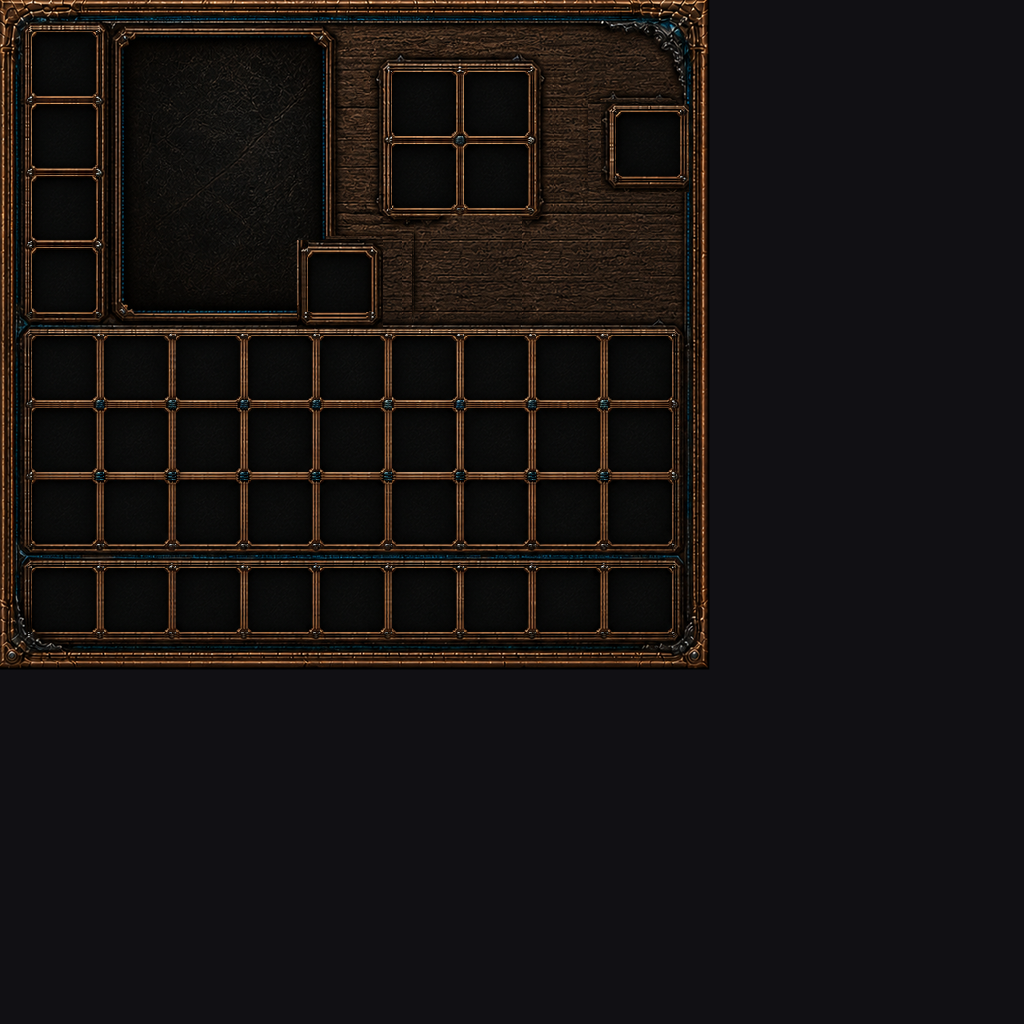
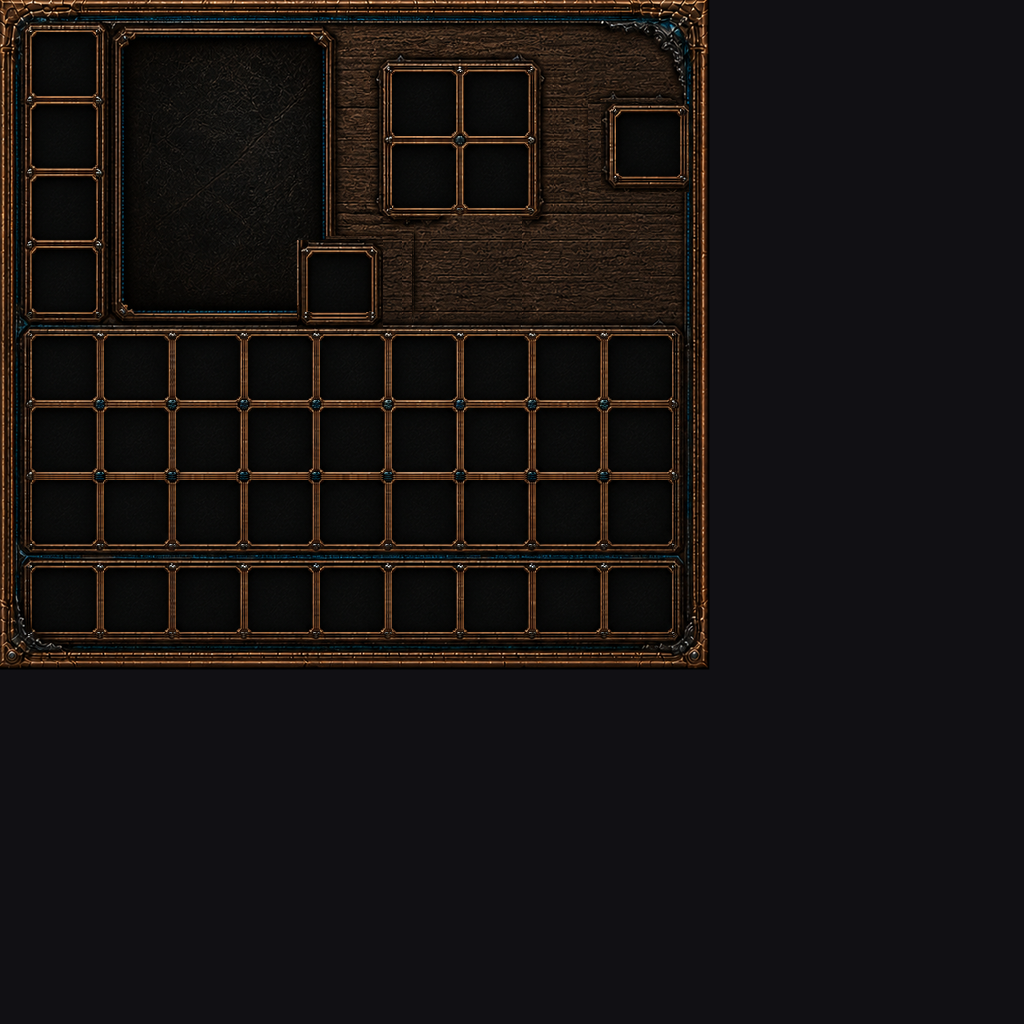
mvnx: 루트 비틀림을 IK 목표에서 제거 — "다리가 반대" 수정
유저 지적. 골반 기준으로 제대로 재보니 발의 앞뒤 부호가 15프레임 중 13에서
원본과 반대였다(좌우는 맞았음).

원인: player_root의 Y회전(비틀림, ±35도)은 팔·다리에도 그대로 곱해지는데 IK 목표를
그 회전이 걷히지 않은 좌표계에서 계산했다. 발의 앞뒤 성분(±1유닛)이 좌우 성분
(±4유닛)보다 작아서, 35도 회전이 섞이면 앞뒤 부호가 통째로 뒤집힌다.

수정: 비틀림 시계열을 루프 전에 확정하고(팔다리 IK와 동일한 값을 써야 함),
각 프레임 목표 벡터에 Ry(-twist)를 먼저 적용. 팔은 그 다음 가슴 회전 제거.

결과: 발 앞뒤 부호 불일치 87% -> 14%.

★교훈: 리타게팅 검증은 반드시 '그 뼈의 부모 기준'으로 재야 한다. 처음엔 루트(발밑)
기준으로 재서 루트 드리프트(±2.5유닛)가 섞인 엉뚱한 수치를 보고 있었다.

diff --git a/.claude/skills/mocap-emote/scripts/mvnx_retarget.py b/.claude/skills/mocap-emote/scripts/mvnx_retarget.py
@@ -135,6 +135,10 @@ def sub(a, b):
 SEG_LEN = 5.625          # 우리 리그의 상완/전완, 허벅지/정강이 한 마디 길이
 
 
+def M_sub(a, b):
+    return (a[0] - b[0], a[1] - b[1], a[2] - b[2])
+
+
 def dist3(v):
     return math.sqrt(sum(c * c for c in v))
 
@@ -239,6 +243,18 @@ def build_pos(mv, start, n, step, arm_ex=1.0, spine_ex=1.2, head_ex=1.5, hip_ex=
         x, y, z = raw(f, seg)
         return (x * ca + z * sa, y, -x * sa + z * ca)
 
+    # ★루트 비틀림을 먼저 확정한다. player_root의 Y회전은 팔·다리에도 그대로 곱해지므로,
+    # IK 목표를 이 회전이 걷힌 좌표계로 옮겨놓지 않으면 발의 앞뒤 성분(±1유닛)이 좌우
+    # 성분(±4유닛)과 섞여 부호가 뒤집힌다 — "다리가 반대"로 보이던 원인.
+    tw_raw = []
+    for f in idxs:
+        sh = M_sub(P(f, "LeftShoulder"), P(f, "RightShoulder"))
+        tw_raw.append(math.degrees(math.atan2(sh[2], sh[0])))
+    _sm = R.smooth(tw_raw)
+    _m = R.mean(_sm)
+    TW = R.clamp([(v - _m) * twist_ex for v in R.deadzone([v - _m for v in _sm], 1.5)], -35, 35)
+    TW = [0.0] + TW          # 인덱스 0은 기준자세(f=-1)용
+
     KEYS = ("waist_x", "waist_z", "chest_x", "chest_z", "twist",
             "pra_x", "pra_z", "pla_x", "pla_z", "prl_x", "prl_z", "pll_x", "pll_z",
             "prfa", "plfa", "prfl", "plfl", "rx", "ry", "rz", "head_x", "head_y")
@@ -246,8 +262,9 @@ def build_pos(mv, start, n, step, arm_ex=1.0, spine_ex=1.2, head_ex=1.5, hip_ex=
     # ★기준자세(차렷)에서의 같은 각도 — 아래 루프가 끝난 뒤 전부 빼서 "0=차렷"으로 맞춘다.
     rest_ch = {k: [] for k in KEYS}
     base_spine = [0.0, 0.0, 0.0, 0.0]   # 기준자세의 (wx, wz, cx, cz)
-    for f in [-1] + idxs:          # -1 = 기준자세
+    for _fi, f in enumerate([-1] + idxs):   # -1 = 기준자세
         into = rest_ch if f == -1 else ch
+        untwist = mat_t(pr.euler_mat(0, TW[_fi], 0))   # 루트 Y회전 제거용
         pelvis, t8, neck = P(f, "Pelvis"), P(f, "T8"), P(f, "Neck")
         # 몸통: 골반->T8이 허리, T8->목이 가슴. 좌우 어깨선으로 몸 전체 비틀림.
         wx, wz = dir_to_xz([-c for c in sub(t8, pelvis)])   # 위로 뻗은 축이라 부호 반전
@@ -284,7 +301,8 @@ def build_pos(mv, start, n, step, arm_ex=1.0, spine_ex=1.2, head_ex=1.5, hip_ex=
                 ("L", "LeftUpperArm", "LeftForeArm", "LeftHand", "pla", "plfa")):
             src_len = (dist3(sub(P(f, low), P(f, up))) + dist3(sub(P(f, end), P(f, low)))) or 1e-6
             v = [c * (SEG_LEN * 2 / src_len) for c in sub(P(f, end), P(f, up))]
-            v = pr.mat_vec(parT, v)                 # 팔은 가슴의 자식
+            v = pr.mat_vec(untwist, v)              # 루트 비틀림 제거
+            v = pr.mat_vec(parT, v)                 # 그 다음 가슴 회전 제거
             ax, az, bend = two_bone_ik(v, SEG_LEN, SEG_LEN)
             into[k + "_x"].append(ax); into[k + "_z"].append(az); into[seg].append(bend)
         for side, up, low, end, k, seg in (
@@ -292,7 +310,8 @@ def build_pos(mv, start, n, step, arm_ex=1.0, spine_ex=1.2, head_ex=1.5, hip_ex=
                 ("L", "LeftUpperLeg", "LeftLowerLeg", "LeftFoot", "pll", "plfl")):
             src_len = (dist3(sub(P(f, low), P(f, up))) + dist3(sub(P(f, end), P(f, low)))) or 1e-6
             v = [c * (SEG_LEN * 2 / src_len) for c in sub(P(f, end), P(f, up))]
-            ax, az, bend = two_bone_ik(v, SEG_LEN, SEG_LEN)   # 다리는 root 직계라 부모회전 없음
+            v = pr.mat_vec(untwist, v)      # 다리는 root 직계 — 비틀림만 제거하면 된다
+            ax, az, bend = two_bone_ik(v, SEG_LEN, SEG_LEN)
             into[k + "_x"].append(ax); into[k + "_z"].append(az); into[seg].append(bend)
         p = P(f, "Pelvis")
         into["rx"].append(p[0]); into["ry"].append(p[1]); into["rz"].append(p[2])
@@ -329,7 +348,7 @@ def build_pos(mv, start, n, step, arm_ex=1.0, spine_ex=1.2, head_ex=1.5, hip_ex=
     waist_x = A("waist_x", spine_ex, -30, 30); waist_z = A("waist_z", spine_ex, -25, 25)
     chest_x = A("chest_x", spine_ex, -30, 30); chest_z = A("chest_z", spine_ex, -25, 25)
     # 비틀림만 중심화 — 촬영장에서 어느 방향을 보고 섰는지는 임의값이라 상수 성분에 의미가 없다.
-    twist = C("twist", twist_ex, -35, 35, 1.5)
+    twist = TW[1:]          # 루프 전에 확정한 값(팔다리 IK와 동일한 값이어야 한다)
     # ★IK 결과라 clamp를 넉넉히 — 좁게 잡으면 손끝이 목표에서 밀려나 '손 모으기'가 깨진다.
     pra_x = A("pra_x", arm_ex, -170, 170); pla_x = A("pla_x", arm_ex, -170, 170)
     pra_z = A("pra_z", arm_ex, -140, 140); pla_z = A("pla_z", arm_ex, -140, 140)

diff --git a/gui-forge/prep_inventory_bg.py b/gui-forge/prep_inventory_bg.py
@@ -95,15 +95,19 @@ def _edges(px, w, h, ix0, iy0):
     mx, my = ix0 + FIT_ICON // 2, iy0 + FIT_ICON // 2
     ref = px[mx, my]
 
-    def scan(dx, dy):
+    def scan(dx, dy, base):
         for k in range(1, FIT_ICON // 2 + FIT_PAD + 2):
             x, y = mx + dx * k, my + dy * k
             if not (0 <= x < w and 0 <= y < h):
                 return None
             if px[x, y] - ref >= FIT_RISE:
-                return k - FIT_ICON // 2      # 0 이면 딱 맞음
+                return k - base               # 0 이면 딱 맞음
         return None
-    return tuple(scan(*d) for d in ((-1, 0), (1, 0), (0, -1), (0, 1)))
+    # ★상자는 mx-32 ~ mx+31 로 **좌우가 비대칭**이다(폭 64, 중심이 픽셀 경계가 아니라
+    #   픽셀 위에 있다). 그래서 상자 바로 바깥 첫 픽셀이 왼·위는 33칸, 오른·아래는 32칸
+    #   떨어져 있다. 양쪽 다 32 로 재면 왼·위가 늘 +1 로 나와 멀쩡한 칸을 1px 씩 밀어버린다
+    #   (2026-08-12 그렇게 46칸을 최대 4px 까지 파먹었다).
+    return (scan(-1, 0, 33), scan(1, 0, 32), scan(0, -1, 33), scan(0, 1, 32))
 
 
 def fit_slots(im):
